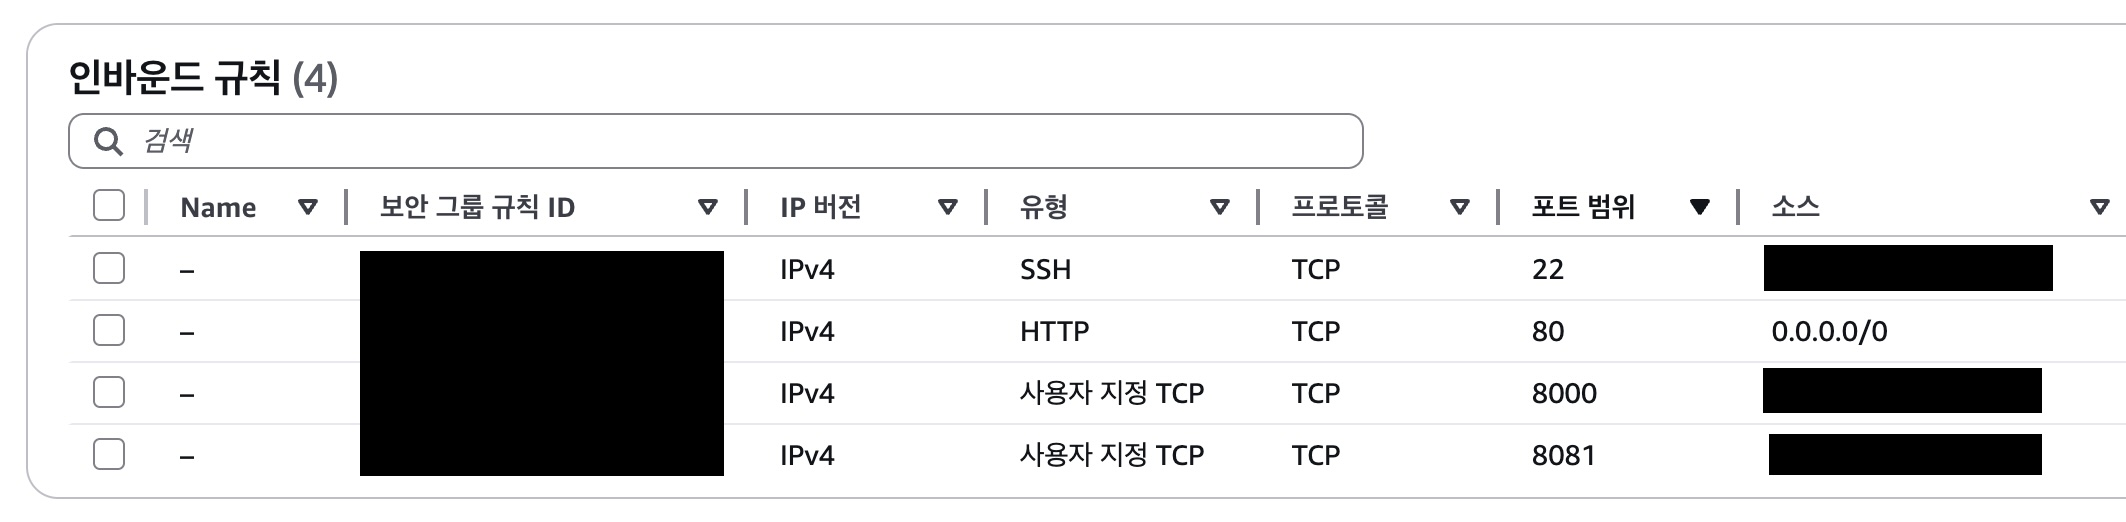
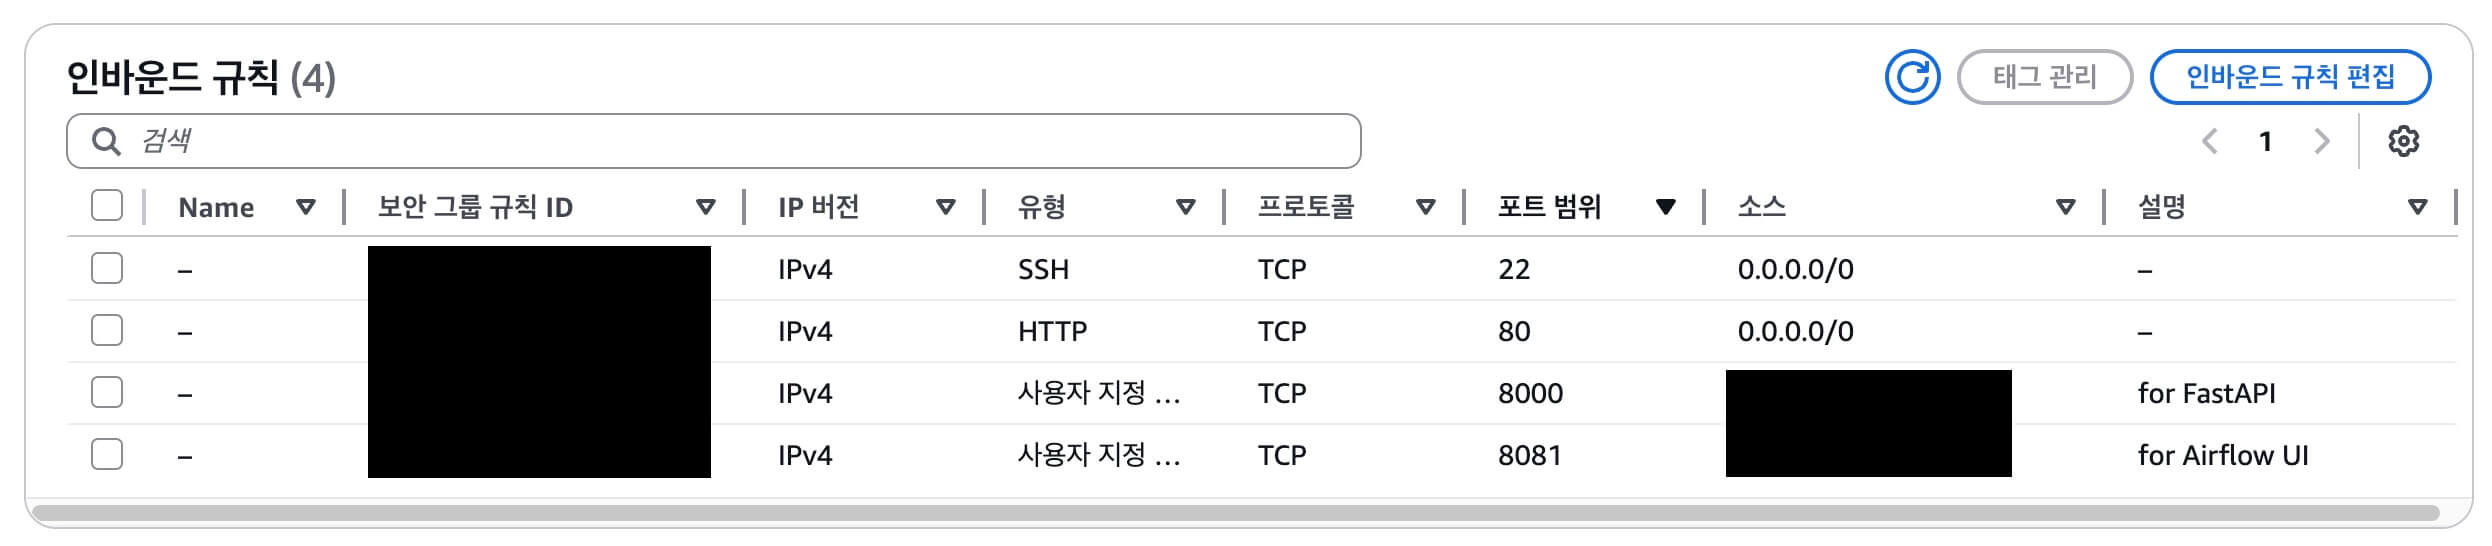
update

diff --git a/_posts/project/newsnack/2026-02-26-newsnack-aws-infra-architecture.md b/_posts/project/newsnack/2026-02-26-newsnack-aws-infra-architecture.md
@@ -46,12 +46,14 @@ _최종 VPC 구조_
 
 | 포트 | 소스 | 목적 |
 |---|---|---|
-| **22 (SSH)** | 내 IP | 서버 관리 |
+| **22 (SSH)** | `0.0.0.0/0` | Github Actions 자동 배포 및 서버 관리 |
 | **80 (HTTP)** | `0.0.0.0/0` | API 관문 (Nginx). Cloudflare 프록시와 통신. |
 | **8000, 8081** | 내 IP | `FastAPI` Swagger UI, `Airflow` Web UI 접속. |
 | **8080** | - | 인바운드에서 개방 안 함 (도커 네트워크 내부 통신 전용) |
 
-특히 `HTTPS(443)` 통신의 경우 EC2에서 직접 인증서를 관리하지 않고 **Cloudflare 프록시를 통해 SSL Offloading**을 처리하므로, EC2 레벨에서는 Cloudflare와 통신할 `80` 포트 하나만 열어두면 충분했다. 
+특히 `HTTPS(443)` 통신의 경우 EC2에서 직접 인증서를 관리하지 않고 **Cloudflare 프록시를 통해 SSL Offloading**을 처리하므로, 외부 클라이언트와의 통신은 Cloudflare를 거쳐 `80` 포트로만 들어오게 된다.
+
+또한 `22 (SSH)` 포트의 경우 Github Actions를 사용한 자동 배포 과정에서 EC2 서버로 접근하기 위해 활용한다. Github 제공 runner의 IP 대역이 유동적으로 변하기 때문에 소스 IP를 `0.0.0.0/0`으로 전체 개방해 두었으며, 대신 인증키(PEM)를 통해 접근을 엄격히 제어하는 방식을 택했다.
 
 ### 2차 방화벽: RDS 전용 보안 그룹 (`newsnack-rds-sg`)
 
